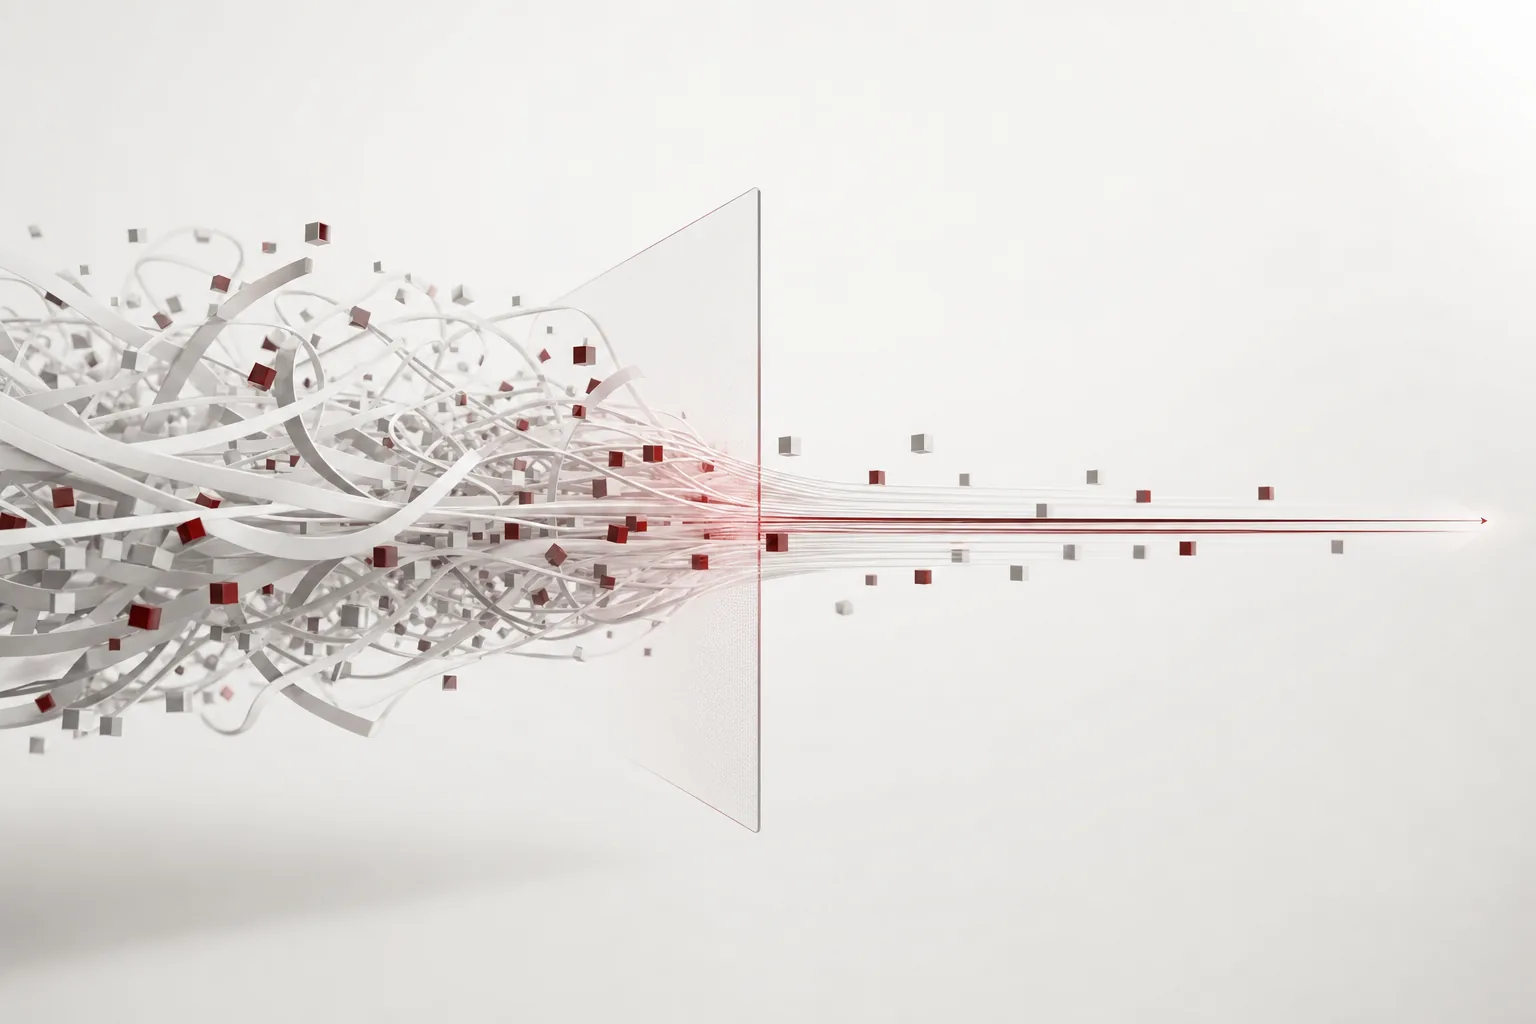
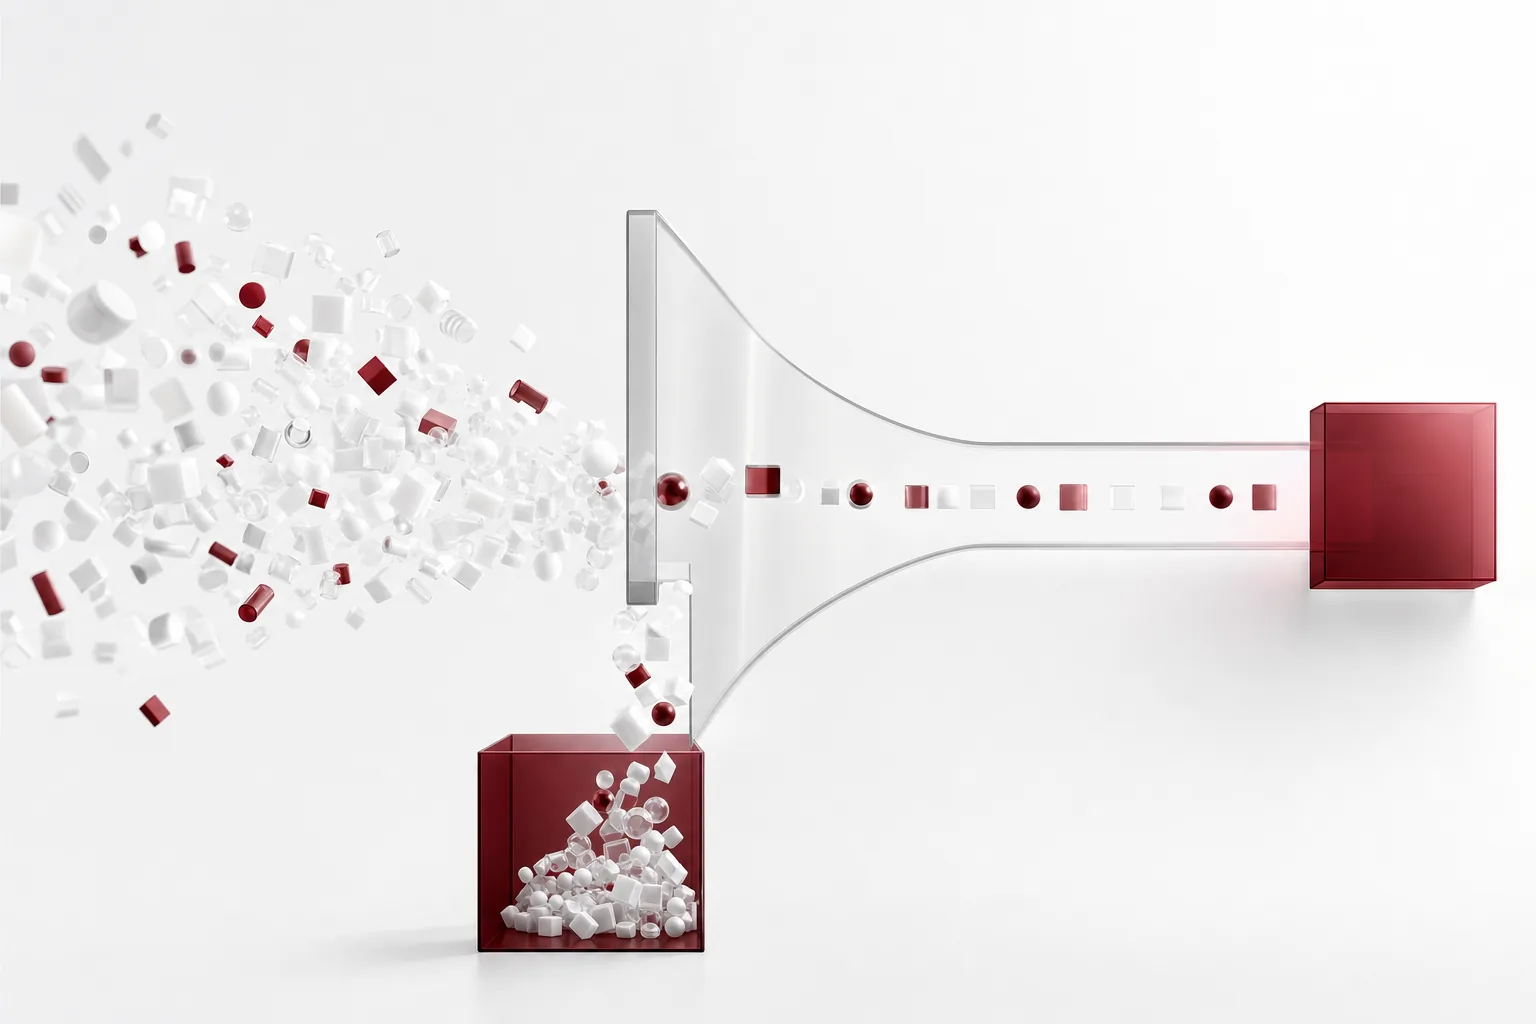
feat(blog): add NotebookLM media to the agent-cost post
The media pass did land after all (both earlier runs looked silent
because their output was buffered). It attached a Korean and an English
audio overview, regenerated the hero on brand, and produced two
infographics per language.

Three corrections on top of what it generated:
- Dropped the auto-inserted duplicate hero; kept the inline one whose
  caption ties to the article's thesis.
- Dropped infographic 1 in both languages. It renders the wide-table
  code-mode figure as 800 tokens where the source and our own table say
  900, and carries two typos. A figure that contradicts the table three
  screens below it is worse than no figure.
- Rewrote the hero caption to describe the regenerated image, which
  shows filtering rather than leaking.

Gates re-run after the changes: structure / reader-first / mermaid-lint /
lang-purity / category / parity all pass, zero em-dashes, no dangling
asset references.

Claude-Session: https://claude.ai/code/session_01H4s8NaFHwowmrDrY3Ywuch

diff --git a/_posts/ko/agentops/2026-08-31-uber-software-factory-agent-cost.md b/_posts/ko/agentops/2026-08-31-uber-software-factory-agent-cost.md
@@ -20,6 +20,9 @@ tags:
 categories:
   - agentops
 canonical_url: "https://thakicloud.com/tech-blog/ko/agentops/uber-software-factory-agent-cost/"
+audiobook: "https://drive.google.com/file/d/1_e4bX1d1sNjgBNvsyd2oAHd3X2bbvI3Z/view"
+audiobook_label: "▶ 5분 브리핑으로 듣기"
+audiobook_note: "NotebookLM 오디오 개요 (AI 생성)"
 ---
 
 ## 왜 읽어야 하나
@@ -28,7 +31,7 @@ canonical_url: "https://thakicloud.com/tech-blog/ko/agentops/uber-software-facto
 
 Uber가 2026년 8월 27일에 공개한 숫자가 그 명제를 뒷받침합니다. 2월부터 8월까지 주간 활성 사용자는 7배, 주간 에이전트 요청은 9.4배 늘었는데 AI 총지출은 4월 이후로 거의 평평합니다. 모델 업그레이드 효과를 제거하려고 같은 모델을 고정해서 다시 재보니, 요청 1,000건당 비용이 정점 대비 34% 낮아졌고 세션당 비용은 6월 고점 대비 52% 낮아졌습니다. 쓰는 양이 9배가 되는 동안 단위 비용이 절반이 된 것입니다.
 
-![파이프라인 밖으로 새어 나가는 토큰을 형상화한 이미지](/assets/images/uber-software-factory-agent-cost-hero.webp)
+![대부분이 걸러지고 일부만 목적지에 닿는 토큰 흐름을 형상화한 이미지](/assets/images/uber-software-factory-agent-cost-hero.webp)
 
 에이전트가 쓰는 것의 대부분은 사용자의 요청에 닿지 않습니다.
 
@@ -142,6 +145,10 @@ Uber의 숫자를 그대로 우리 조직에 대입할 수는 없습니다. Uber
 에이전트 비용을 낮추는 일은 결국 엔지니어링 문제입니다. 더 싼 모델로 내려가거나 도구를 덜 쓰게 만드는 대신, 가치를 만들지 않는 토큰을 찾아내 제거하는 쪽이 이깁니다. Uber는 그렇게 해서 사용량을 7배로 키우면서 단위 비용을 전 지표에서 낮췄고 품질은 유지하거나 개선했습니다.
 
 당장 해볼 것을 하나만 고른다면 지금 쓰는 에이전트의 세션 시작 컨텍스트를 재보시길 권합니다. 사용자가 첫 프롬프트를 입력하기 전에 툴 정의와 시스템 지시로 몇 토큰이 이미 차 있는지 세어 보면, 그 숫자가 매 턴 반복해서 청구되고 있다는 사실이 바로 보입니다. 저희는 그 값이 18만 6천이었습니다. 재고 나서야 이 글의 나머지가 남의 회사 이야기로 읽히지 않았습니다.
+
+<!-- nlm-visual -->
+![핵심 개념 요약 인포그래픽 2](/assets/images/posts/news/uber-software-factory-agent-cost/nlm-infographic-2.webp)
+*NotebookLM이 소스를 종합해 생성한 인포그래픽입니다.*
 
 ## 출처
 

diff --git a/_posts/en/agentops/2026-08-31-uber-software-factory-agent-cost.md b/_posts/en/agentops/2026-08-31-uber-software-factory-agent-cost.md
@@ -21,6 +21,9 @@ tags:
   - metis
 categories:
   - agentops
+audiobook: "https://drive.google.com/file/d/1g_cfdULXPPv6gHuuPiioJ9BgrBmGBr-u/view"
+audiobook_label: "▶ Listen: 5-minute briefing"
+audiobook_note: "NotebookLM audio overview (AI-generated)"
 ---
 
 ## Why read this
@@ -29,7 +32,7 @@ This is for platform engineers and engineering leaders who rolled out a coding a
 
 Uber published numbers on August 27, 2026 that back this up. Between February and August, weekly active users grew 7x and weekly agentic requests grew 9.4x, yet total AI spend has been roughly flat since April. Holding the model constant to isolate their own optimization work, cost per 1,000 model requests fell 34% from its peak and cost per session fell 52% from its June peak. Usage went up 9x while unit cost went down by half.
 
-![An abstract visual of tokens leaking out of a pipeline](/assets/images/uber-software-factory-agent-cost-hero.webp)
+![An abstract visual of a token stream where most is filtered out and only a fraction reaches its destination](/assets/images/uber-software-factory-agent-cost-hero.webp)
 
 Most of what an agent spends never reaches the user's request.
 
@@ -143,6 +146,10 @@ Finally, every number here is Uber's own reporting. The vendor comparison is sta
 Lowering agent cost turns out to be an engineering problem. Rather than dropping to a cheaper model or discouraging tool use, the winning move is finding and deleting tokens that create no value. Uber did that, grew usage 7x, lowered unit cost across every metric, and held or improved output quality.
 
 If you pick one thing to try, measure your agent's session-start context. Count how many tokens are already occupied by tool definitions and system instructions before the first prompt is typed, and it becomes immediately obvious that the number is being billed again on every turn. Ours was 186,000. Only after measuring it did the rest of this stop reading like somebody else's story.
+
+<!-- nlm-visual -->
+![Key-concept summary infographic 2](/assets/images/posts/news/uber-software-factory-agent-cost/en/nlm-infographic-2.webp)
+*Infographic generated by NotebookLM from the sources.*
 
 ## Sources
 
